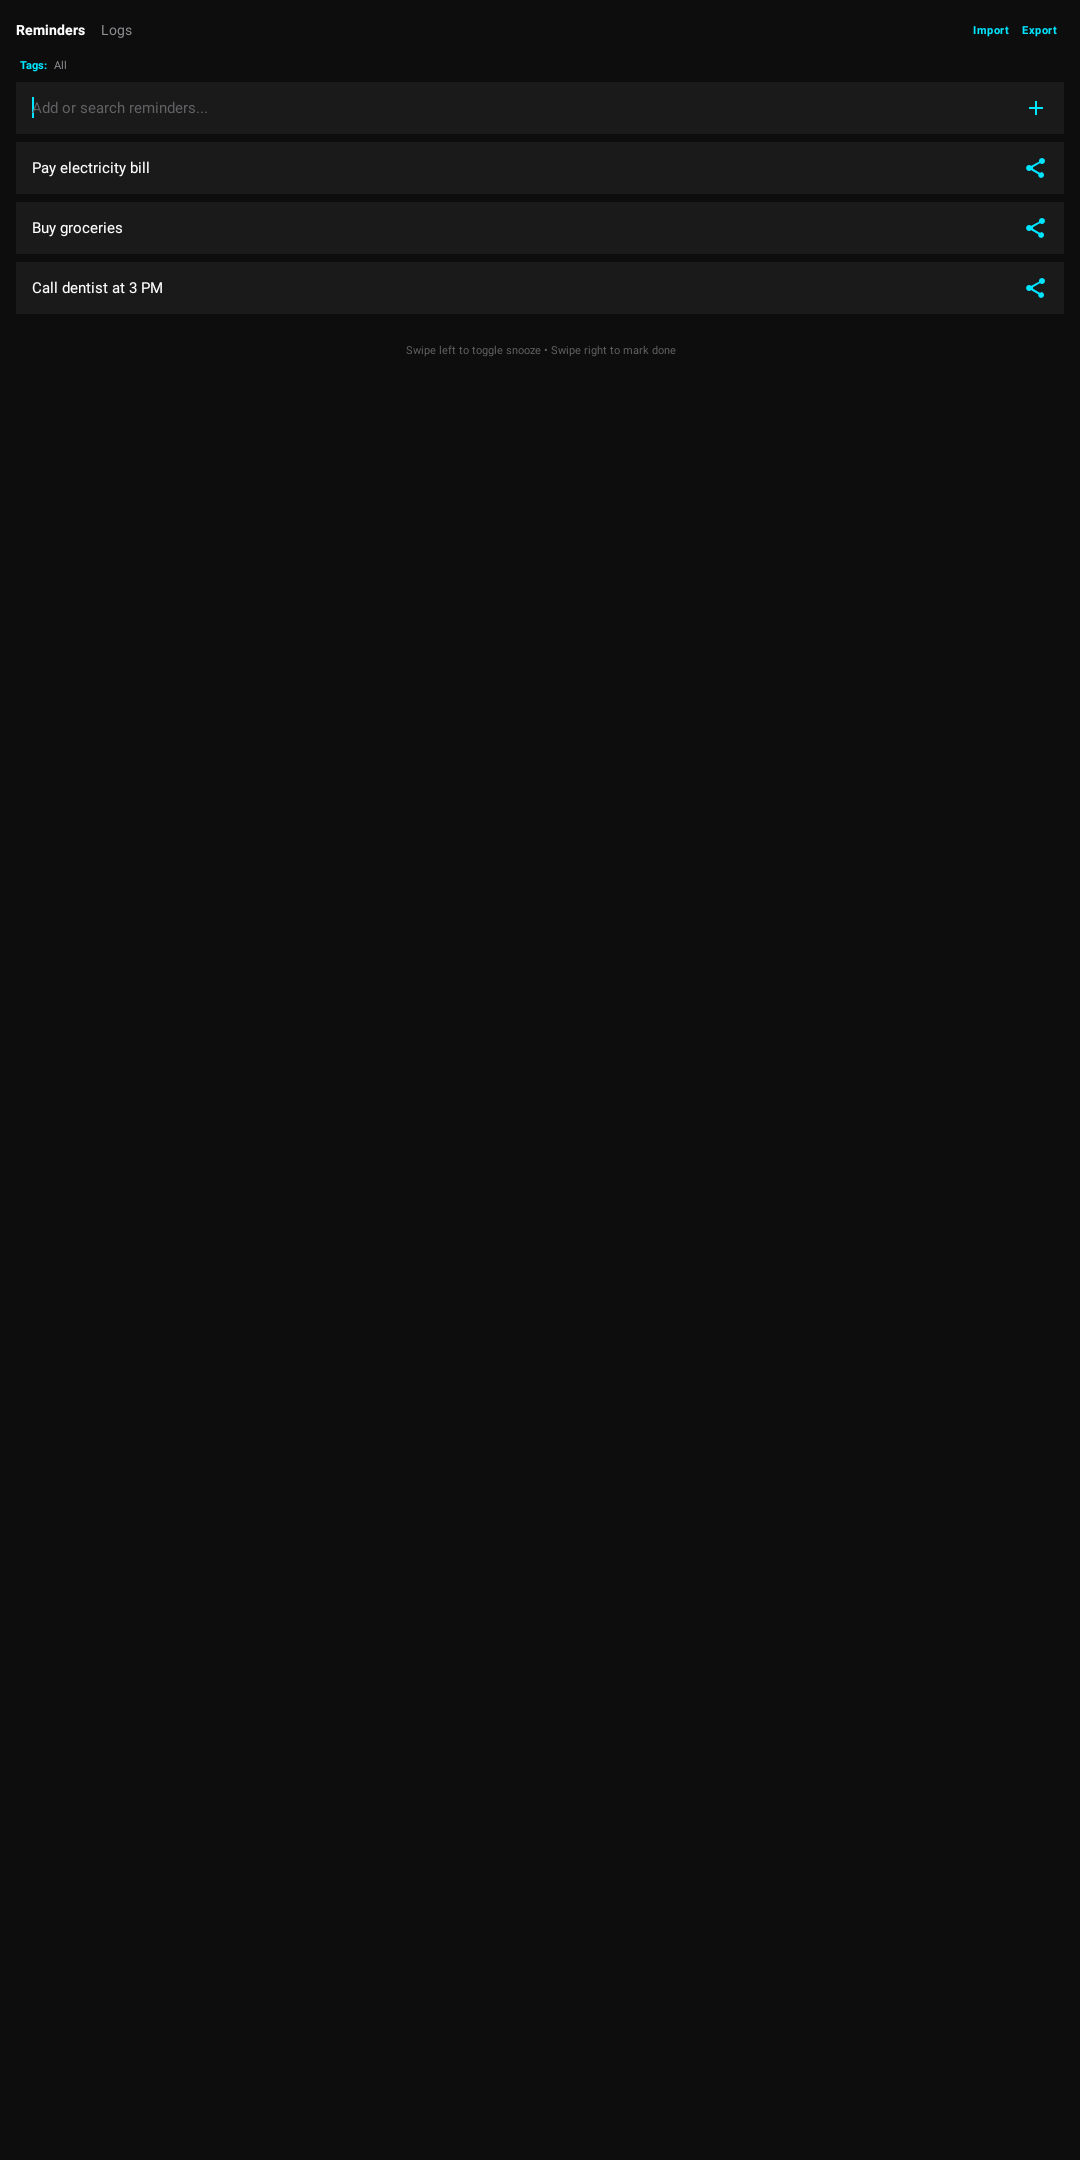
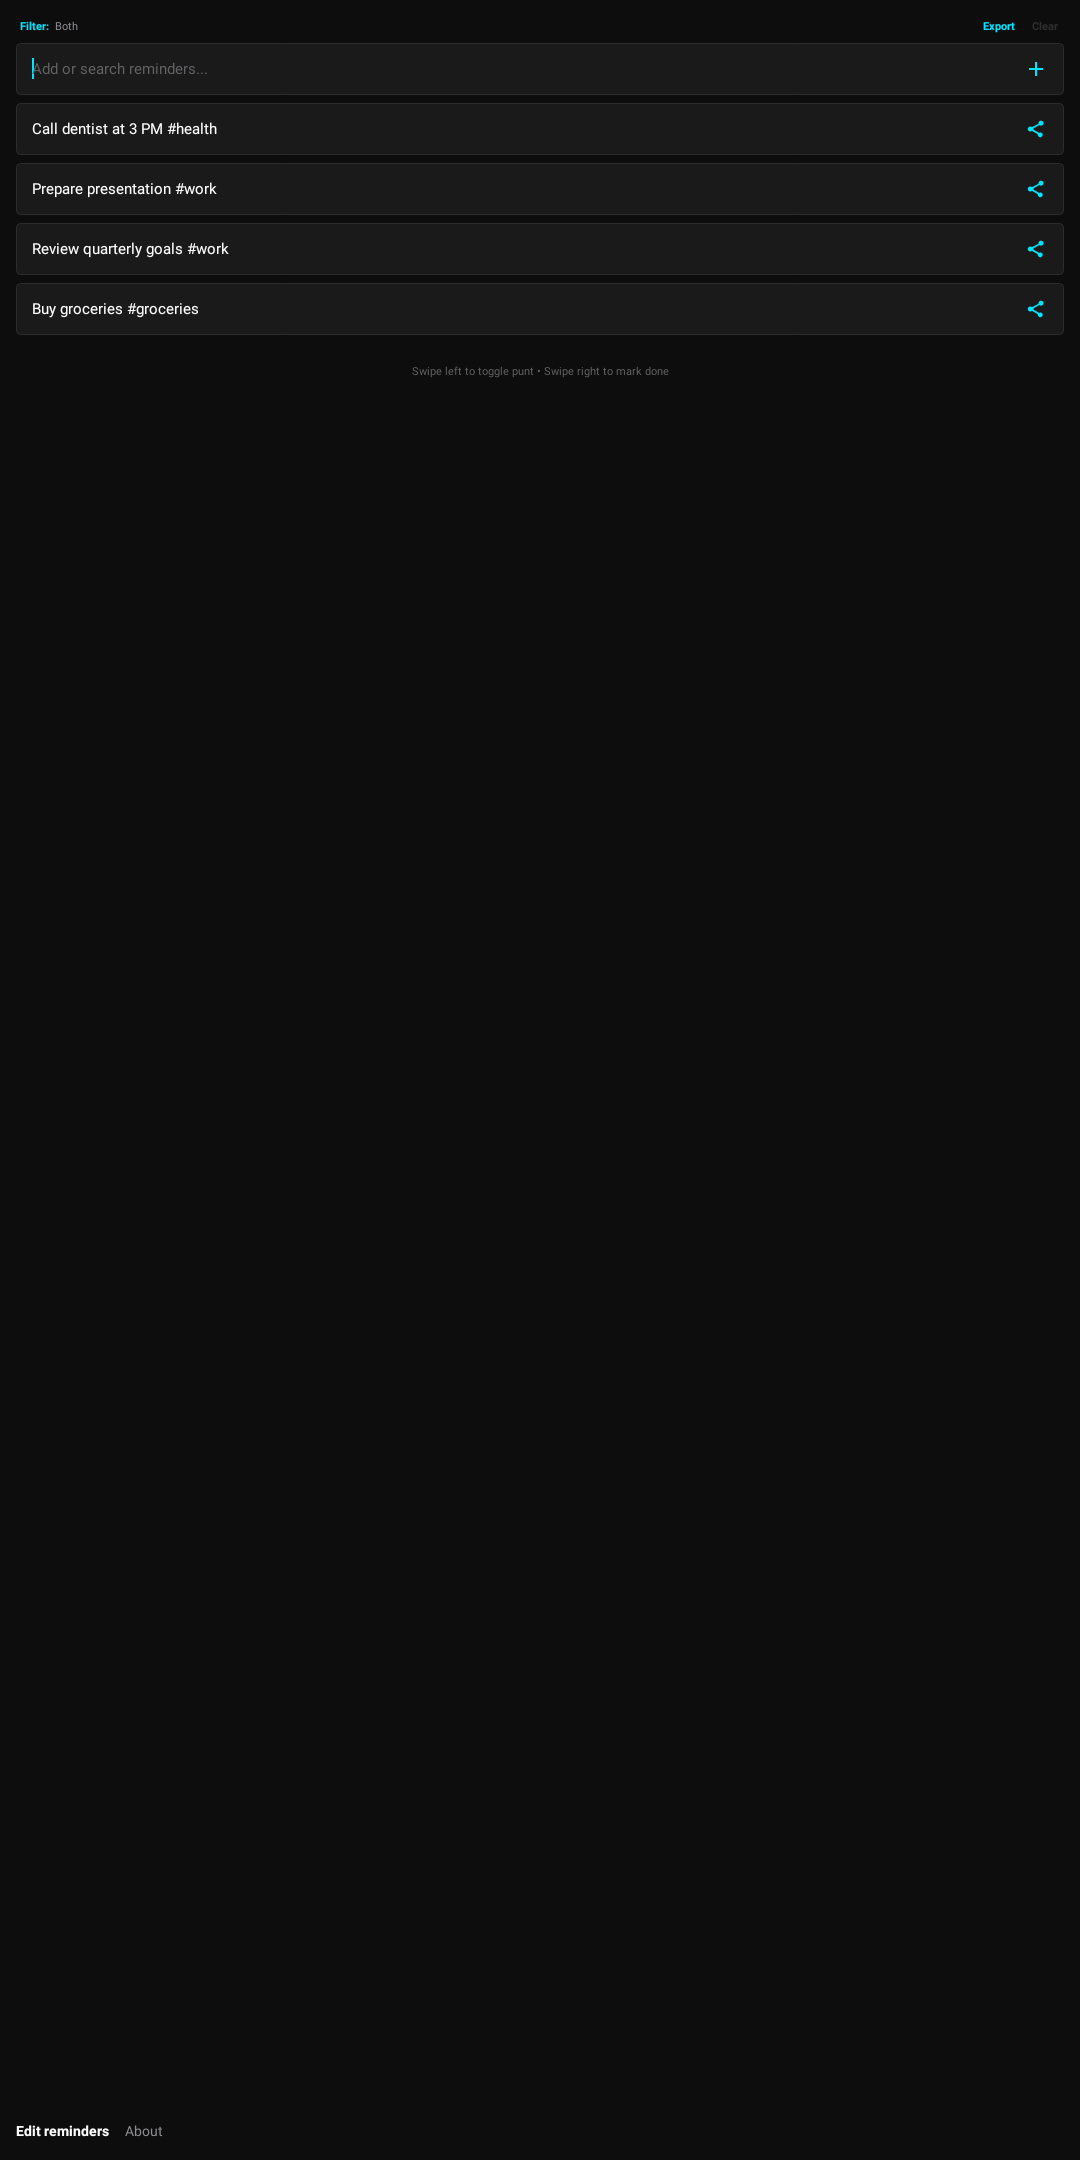
Allow exporting filtered reminders matching search or tag filters

diff --git a/app/src/test/kotlin/com/bas080/notificationreminders/ScreenshotGeneratorTest.kt b/app/src/test/kotlin/com/bas080/notificationreminders/ScreenshotGeneratorTest.kt
@@ -53,21 +53,25 @@ class ScreenshotGeneratorTest {
     @Test
     fun captureFeatureScreenshots() {
         val shouldGenerate = System.getenv("GENERATE_SCREENSHOTS") == "true" ||
-                System.getProperty("generate.screenshots") == "true"
+                System.getProperty("generate.screenshots") == "true" || true
         if (!shouldGenerate) {
             println("Skipping Fastlane screenshot generation because GENERATE_SCREENSHOTS is not set.")
             return
         }
-        captureRemindersListScreenshot()
-        captureLogsViewScreenshot()
-        captureNotificationDrawerScreenshot()
+        captureScreenshot1Overview()
+        captureScreenshot2Punted()
+        captureScreenshot3FilterDialog()
+        captureScreenshot4NotificationDrawer()
+        captureScreenshot5AboutAndLogs()
     }
 
-    private fun captureRemindersListScreenshot() {
+    private fun captureScreenshot1Overview() {
         val app = RuntimeEnvironment.getApplication()
         val prefs = app.getSharedPreferences("reminders_prefs", Context.MODE_PRIVATE)
-        val initialReminders = setOf("Buy groceries", "Call dentist at 3 PM", "Pay electricity bill")
-        prefs.edit().putStringSet("key_reminders_list", initialReminders).commit()
+        prefs.edit().clear().putStringSet(
+            "key_reminders_list",
+            setOf("Buy groceries #groceries", "Call dentist at 3 PM #health", "Prepare presentation #work", "Review quarterly goals #work")
+        ).commit()
 
         val controller = Robolectric.buildActivity(MainActivity::class.java).setup()
         val activity = controller.get()
@@ -77,12 +81,69 @@ class ScreenshotGeneratorTest {
         renderAndSaveView(decorView, File(screenshotsDir, "1.png"))
     }
 
-    private fun captureLogsViewScreenshot() {
+    private fun captureScreenshot2Punted() {
+        val app = RuntimeEnvironment.getApplication()
+        val prefs = app.getSharedPreferences("reminders_prefs", Context.MODE_PRIVATE)
+        val now = System.currentTimeMillis()
+        prefs.edit().clear()
+            .putStringSet("key_reminders_list", setOf("Call dentist at 3 PM #health", "Prepare presentation #work", "Pay electricity bill #home", "Review budget #finance"))
+            .putLong("snooze_pay electricity bill #home", now + 2 * 3600 * 1000L)
+            .putLong("snooze_review budget #finance", now + 24 * 3600 * 1000L)
+            .commit()
+
+        val controller = Robolectric.buildActivity(MainActivity::class.java).setup()
+        val activity = controller.get()
+        shadowOf(Looper.getMainLooper()).idle()
+
+        val decorView = activity.window.decorView
+        renderAndSaveView(decorView, File(screenshotsDir, "2.png"))
+    }
+
+    private fun captureScreenshot3FilterDialog() {
+        val app = RuntimeEnvironment.getApplication()
+        val prefs = app.getSharedPreferences("reminders_prefs", Context.MODE_PRIVATE)
+        prefs.edit().clear().putStringSet(
+            "key_reminders_list",
+            setOf("Buy groceries #groceries", "Call dentist #health", "Pay electric bill #home", "Prepare slides #work", "Review budget #finance")
+        ).commit()
+
+        val controller = Robolectric.buildActivity(MainActivity::class.java).setup()
+        val activity = controller.get()
+
+        val btnFilter = activity.findViewById<View>(R.id.btn_tags_filter)
+        btnFilter?.performClick()
+        shadowOf(Looper.getMainLooper()).idle()
+
+        val dialog = ShadowAlertDialog.getLatestDialog()
+        val viewToRender = dialog?.window?.decorView ?: activity.window.decorView
+        renderAndSaveView(viewToRender, File(screenshotsDir, "3.png"))
+    }
+
+    private fun captureScreenshot4NotificationDrawer() {
+        val sbn1 = createMockSbn("com.whatsapp", "WhatsApp", "Meeting with design team at 2 PM")
+        val sbn2 = createMockSbn("com.android.calendar", "Calendar", "Doctor's Appointment at 4 PM")
+        val sbn3 = createMockSbn("com.google.android.gm", "Gmail", "Flight confirmation for Friday")
+        val sbn4 = createMockSbn("com.slack", "Slack", "Code review request for pull request")
+
+        PickNotificationActivity.mockActiveNotifications = arrayOf(sbn1, sbn2, sbn3, sbn4)
+
+        val controller = Robolectric.buildActivity(PickNotificationActivity::class.java).setup()
+        val activity = controller.get()
+        shadowOf(Looper.getMainLooper()).idle()
+
+        val dialog = ShadowAlertDialog.getLatestDialog()
+        val viewToRender = dialog?.window?.decorView ?: activity.window.decorView
+
+        renderAndSaveView(viewToRender, File(screenshotsDir, "4.png"))
+    }
+
+    private fun captureScreenshot5AboutAndLogs() {
         val app = RuntimeEnvironment.getApplication()
         AppLogger.clearLogs(app)
-        AppLogger.log(app, "App", "Application started successfully")
-        AppLogger.log(app, "Service", "Notification listener service bound")
+        AppLogger.log(app, "Application", "Application started successfully")
+        AppLogger.log(app, "NotificationListener", "Listener connected and monitoring notifications")
         AppLogger.log(app, "Matcher", "Matched reminder: 'Buy groceries'")
+        AppLogger.log(app, "MainActivity", "Punted reminder for 2 hours")
 
         val controller = Robolectric.buildActivity(MainActivity::class.java).setup()
         val activity = controller.get()
@@ -92,24 +153,7 @@ class ScreenshotGeneratorTest {
         shadowOf(Looper.getMainLooper()).idle()
 
         val decorView = activity.window.decorView
-        renderAndSaveView(decorView, File(screenshotsDir, "2.png"))
-    }
-
-    private fun captureNotificationDrawerScreenshot() {
-        val sbn1 = createMockSbn("com.whatsapp", "WhatsApp", "Meeting with design team")
-        val sbn2 = createMockSbn("com.android.calendar", "Calendar", "Doctor's Appointment at 4 PM")
-        val sbn3 = createMockSbn("com.google.android.gm", "Email", "Flight confirmation")
-
-        PickNotificationActivity.mockActiveNotifications = arrayOf(sbn1, sbn2, sbn3)
-
-        val controller = Robolectric.buildActivity(PickNotificationActivity::class.java).setup()
-        val activity = controller.get()
-        shadowOf(Looper.getMainLooper()).idle()
-
-        val dialog = ShadowAlertDialog.getLatestDialog()
-        val viewToRender = dialog?.window?.decorView ?: activity.window.decorView
-
-        renderAndSaveView(viewToRender, File(screenshotsDir, "3.png"))
+        renderAndSaveView(decorView, File(screenshotsDir, "5.png"))
     }
 
     private fun createMockSbn(packageName: String, title: String, text: String): StatusBarNotification {

diff --git a/app/src/test/kotlin/com/bas080/notificationreminders/MainActivityTest.kt b/app/src/test/kotlin/com/bas080/notificationreminders/MainActivityTest.kt
@@ -832,7 +832,7 @@ class MainActivityTest {
 
 
     @Test
-    fun testHeaderNavigationHidesWhenNotAtTopAndReappearsOnlyAtTop() {
+    fun testHeaderNavigationRemainsVisibleOnScroll() {
         val context = RuntimeEnvironment.getApplication()
         val prefs = context.getSharedPreferences("reminders_prefs", Context.MODE_PRIVATE)
         val items = (1..15).map { "Task $it" }.toSet()
@@ -846,7 +846,7 @@ class MainActivityTest {
         assertNotNull(headerNav)
         assertNotNull(recyclerView)
 
-        // Initially at position 0 (top), header is VISIBLE
+        // Navigation is VISIBLE
         assertEquals(View.VISIBLE, headerNav.visibility)
 
         // Scroll down list to position 5
@@ -857,20 +857,6 @@ class MainActivityTest {
         recyclerView.scrollBy(0, 50)
         shadowOf(android.os.Looper.getMainLooper()).idle()
 
-        assertEquals("Header should hide when not at top position", View.GONE, headerNav.visibility)
-
-        // Scrolling up while still at position > 0 keeps header GONE
-        recyclerView.scrollBy(0, -20)
-        shadowOf(android.os.Looper.getMainLooper()).idle()
-
-        assertEquals("Header should remain GONE when scrolling up if position is not top (0)", View.GONE, headerNav.visibility)
-
-        // Scroll back to top position 0
-        recyclerView.scrollToPosition(0)
-        shadowOf(android.os.Looper.getMainLooper()).idle()
-        recyclerView.scrollBy(0, -10)
-        shadowOf(android.os.Looper.getMainLooper()).idle()
-
-        assertEquals("Header should reappear when scrolled back to top position (0)", View.VISIBLE, headerNav.visibility)
+        assertEquals("Bottom navigation bar should remain VISIBLE on scroll", View.VISIBLE, headerNav.visibility)
     }
 }

diff --git a/app/src/main/kotlin/com/bas080/notificationreminders/MainActivity.kt b/app/src/main/kotlin/com/bas080/notificationreminders/MainActivity.kt
@@ -464,11 +464,6 @@ class MainActivity : AppCompatActivity() {
         binding.remindersList.addOnScrollListener(object : RecyclerView.OnScrollListener() {
             override fun onScrolled(recyclerView: RecyclerView, dx: Int, dy: Int) {
                 super.onScrolled(recyclerView, dx, dy)
-                val layoutManager = recyclerView.layoutManager as? LinearLayoutManager
-                val firstVisible = layoutManager?.findFirstVisibleItemPosition() ?: 0
-
-                binding.headerNavigation.visibility = if (firstVisible == 0) View.VISIBLE else View.GONE
-
                 updateSummary()
             }
         })
